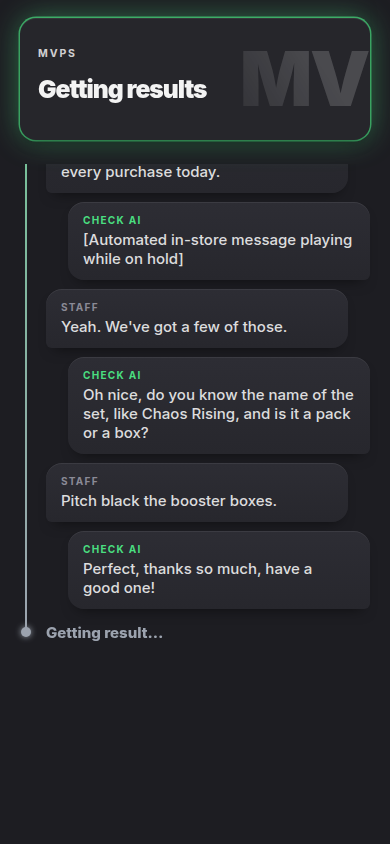
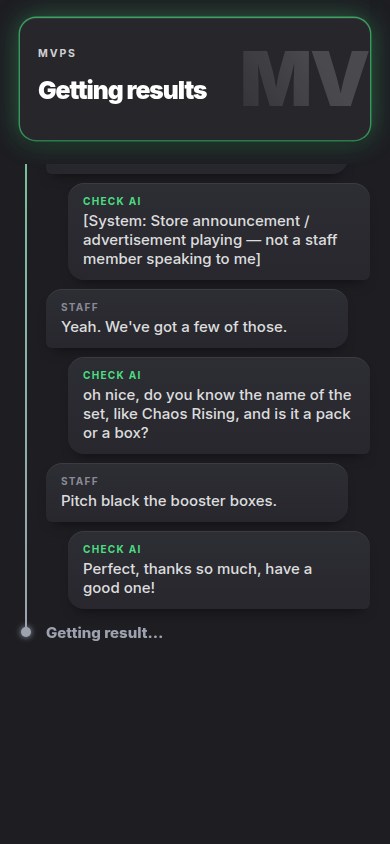
Handoff: check 399, the set question recording proved, the advert narration did not stop

diff --git a/docs/team/voice-calls/echo-handoff.md b/docs/team/voice-calls/echo-handoff.md
@@ -81,6 +81,37 @@ window across real speech — the decision the live ear actually makes — it wo
   answered the advert. The reader NAMES it; nothing acts on it, because his box said report only,
   never stop a live call. **What the engine should DO with that line is the owner's open ruling.**
 
+## ADDED 08-19, THE TWO OWNER BUILDS AND CHECK 399
+- **His two direction rulings are in section 12 of `src/voice/prompts.ts`, word for word**, and
+  asserted word for word in `scripts/test-prompts.ts` (236 green): a recording, an advert or an
+  in-store announcement is waiting and never Staff talking to him, when unsure a real person spoke
+  he uses skip_turn and waits, he never says a note out loud or speaks words inside brackets; and
+  his replies shorten (confirm in two or three words, thank once, sign off soft and short). A full
+  stop was added after "every time" so the next sentence still reads as its own; no word changed.
+- **THE SET QUESTION IS A RECORDING** (`setAskClip`): recorded before the dial beside the opening
+  question and the hold reply, one per voice and per category's set example (`phoneClip` keys on
+  the exact words, so each category gets its own and every later check reuses it). Played by
+  `playSetAsk` in bridge.ts at the one moment the engine already knows: the reader settles in stock
+  AND both pieces missing, which IS the recorded sentence. One piece missing is still Charlie's to
+  ask, or the recording would ask for what Staff just gave (check 376's fault). His own version is
+  dropped behind `ackPlayingUntil`, the hold reply's own door, so a store can never hear it twice,
+  and the note tells him the recording already asked. ONE SOURCE for the sentence, `SET_ASK_LINE`,
+  asserted both ways so his directions and the recording can never drift. Bank 355 with two new
+  scenes (it plays and is dropped once; it stays silent when one piece is missing).
+- **CHECK 399 (scene 22, the advert): one half proved, one half did NOT.**
+  PROVED: "The set question played as a recording" at 42s, 4783ms, and the line on the record is
+  his exact sentence, "oh nice, do you know the name of the set, like Chaos Rising, and is it a
+  pack or a box?". First live proof.
+  NOT PROVED: Charlie STILL narrated the advert, at 31s, in brackets:
+  "[System: Store announcement / advertisement playing — not a staff member speaking]". I checked
+  the live agents rather than assuming: BOTH the main agent and the joining agent carry all three
+  new lines (read straight off ElevenLabs), so the words reached him and he broke them anyway.
+  **This is the 08-06 pattern exactly: "Words could never fix this" — the joining rule said do NOT
+  ask the question again and he did it 5 times out of 5, and only an engine gate fixed it.** The
+  honest fix is the same shape: drop his audio when what he is answering was judged not a person.
+  I did NOT build that tonight: it is not in the box, it can swallow a real answer if it misfires,
+  and what the engine should DO about an advert is the owner's open ruling. Written up, not built.
+
 ## WHAT IS LEFT
 1. **Scene 22, the advert in the music, has not been re-dialed.** The judge is proven on its saved
    record but has never run on a fresh dial of it. That is the next dial. Expect the sound rules
